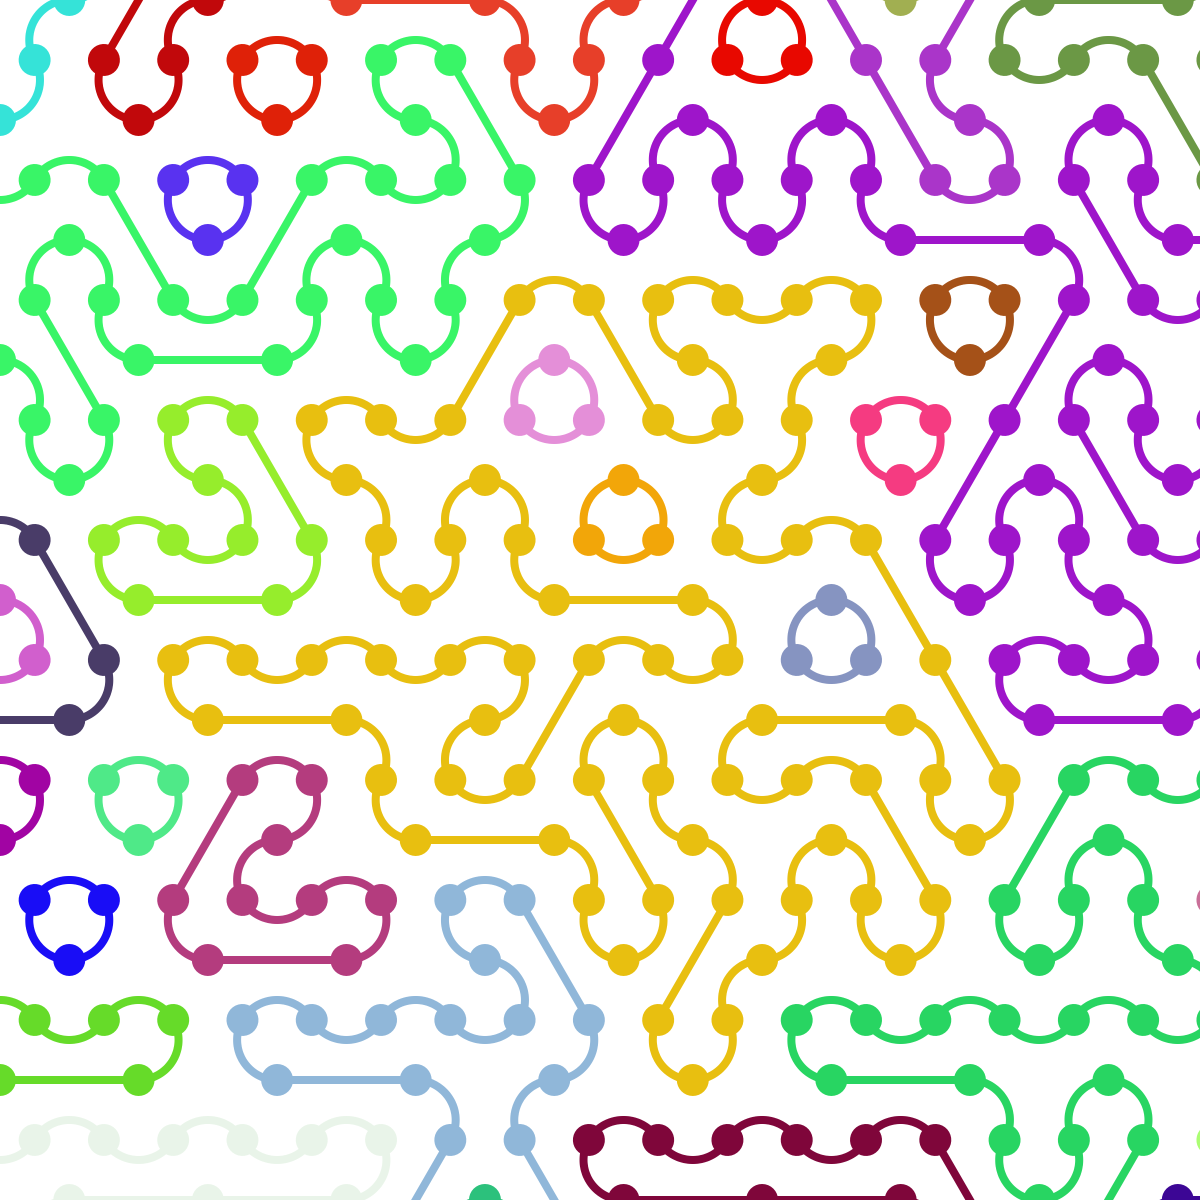
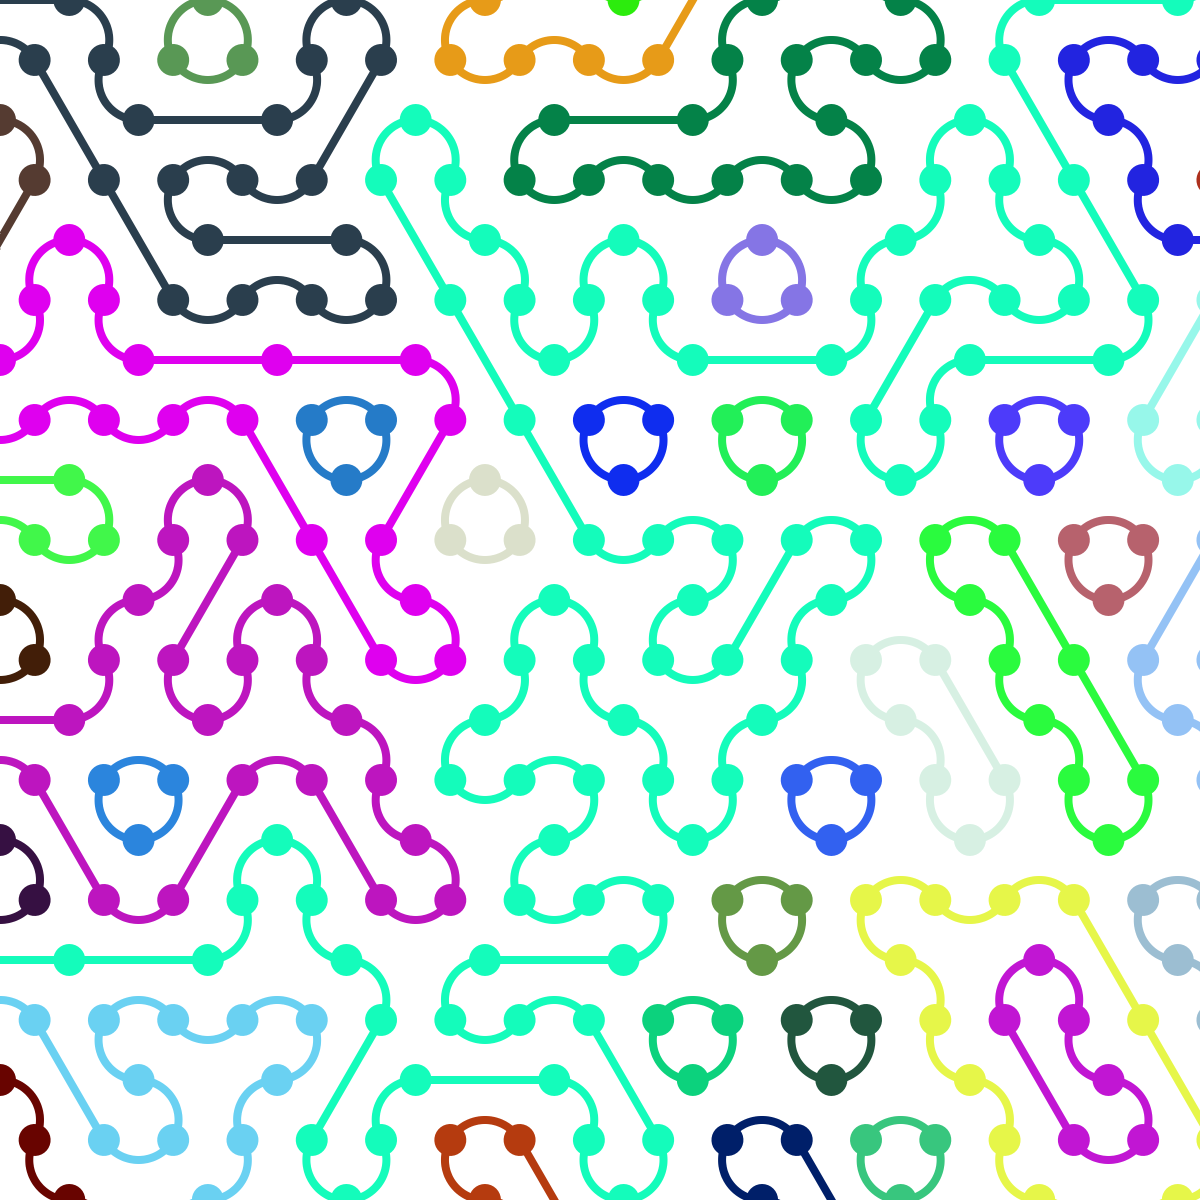
P3 immutable

Changed region(s): [[0.0, 0.0, 1.0, 1.0], [0.185, 0.3392, 0.2158, 0.37]]

diff --git a/penP3.go b/penP3.go
@@ -10,7 +10,7 @@ import (
 type TriangleP3 struct {
 	R, G, B complex128
 	Type    int
-	RKey    string
+	//RKey    string
 }
 
 /*
@@ -22,15 +22,15 @@ R - красная дуга
 G - зеленая дуга
 B - нет дуги
 */
-func (tri *TriangleP3) split() []Shape {
+func (tri TriangleP3) split() []Shape {
 	if tri.Type == 0 {
 		A := tri.B + (tri.R-tri.B)*complex(phi, 0)
-		return []Shape{&TriangleP3{
+		return []Shape{TriangleP3{
 			R:    tri.G,
 			G:    tri.B,
 			B:    A,
 			Type: 1,
-		}, &TriangleP3{
+		}, TriangleP3{
 			R:    A,
 			G:    tri.R,
 			B:    tri.G,
@@ -39,17 +39,17 @@ func (tri *TriangleP3) split() []Shape {
 	} else {
 		A := (tri.G-tri.R)*complex(phi, 0) + tri.R
 		B := (tri.B-tri.R)*complex(phi, 0) + tri.R
-		return []Shape{&TriangleP3{
+		return []Shape{TriangleP3{
 			R:    tri.G,
 			G:    tri.B,
 			B:    A,
 			Type: 1,
-		}, &TriangleP3{
+		}, TriangleP3{
 			R:    B,
 			G:    tri.B,
 			B:    A,
 			Type: 0,
-		}, &TriangleP3{
+		}, TriangleP3{
 			R:    A,
 			G:    tri.R,
 			B:    B,
@@ -58,7 +58,7 @@ func (tri *TriangleP3) split() []Shape {
 	}
 }
 
-func (tri *TriangleP3) Draw(width float64, height float64, dc *gg.Context, lens map[int]int, graph map[string]*PenVertex,
+func (tri TriangleP3) Draw(width float64, height float64, dc *gg.Context, lens map[int]int, graph map[string]*PenVertex,
 	ra float64) {
 
 	c := tri.R + tri.G
@@ -74,8 +74,9 @@ func (tri *TriangleP3) Draw(width float64, height float64, dc *gg.Context, lens 
 
 	if tri.Type == 1 {
 		//Вычисляем свет
-		num := graph[tri.RKey].index //номер связности
-		nn := lens[num]              //Число элементов связности
+		RKey, _ := tri.getLink()
+		num := graph[RKey].index //номер связности
+		nn := lens[num]          //Число элементов связности
 
 		//H := math.Abs(math.Cos(float64(nn-5)*2027)) * 360 //случайный оттенок
 		H := math.Abs(math.Cos(math.Log(float64(nn)*2027))) * 360 //случайный оттенок
@@ -142,12 +143,12 @@ func (tri *TriangleP3) Draw(width float64, height float64, dc *gg.Context, lens 
 
 }
 
-func (tri *TriangleP3) getLink() (ia string, ib string) {
+func (tri TriangleP3) getLink() (ia string, ib string) {
 	pa := (tri.R + tri.G) * complex(0.5, 0)
 	pb := (tri.R + tri.B) * complex(0.5, 0)
 	ia = getPointKey(pa)
 	ib = getPointKey(pb)
-	tri.RKey = ia
+	//tri.RKey = ia
 	return ia, ib
 }
 
@@ -160,10 +161,10 @@ func penrose_P3() {
 	tris := []Shape{}
 	for i := range 10 {
 		B := A * rotator
-		tri := &TriangleP3{
+		tri := TriangleP3{
 			B:    0 + 0i,
 			Type: 0,
-			RKey: "",
+			//RKey: "",
 		}
 		if i%2 == 0 {
 			tri.R = A
@@ -175,5 +176,5 @@ func penrose_P3() {
 		tris = append(tris, tri)
 		A = B
 	}
-	penrose(height, tris, ra, 8, "img/tile_P3.png")
+	penrose(height, tris, ra, 10, "img/tile_P3.png")
 }

diff --git a/main.go b/main.go
@@ -2,7 +2,7 @@ package main
 
 func main() {
 	hex_tiles()
-	penrose_P2()
+	//penrose_P2()
 	penrose_P3()
 
 	println("ok")
